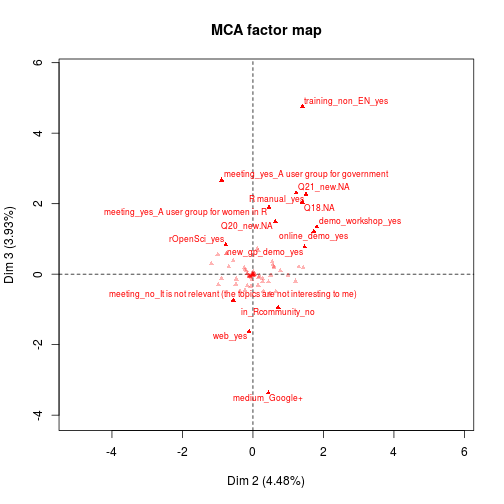
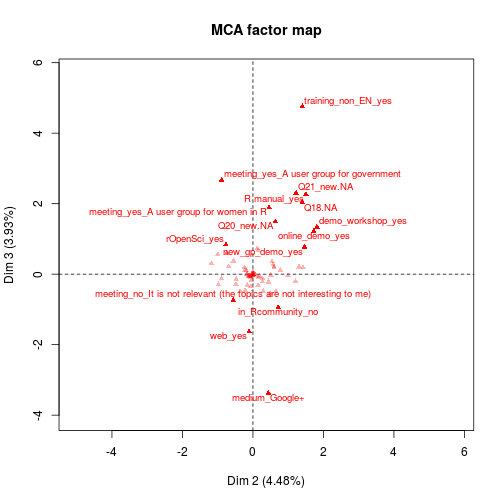
update MCA reports

diff --git a/content/docs/MCA_programming_useR2016_survey.md b/content/docs/MCA_programming_useR2016_survey.md
@@ -1,6 +1,6 @@
 ---
 title: 'useR! 2016 participants and R programming: a multivariate analysis'
-author: "Julie Josse"
+author: "Julie Josse and Heather Turner"
 date: "2017-06-17"
 type: report
 knit: (function(inputFile, encoding) {
@@ -157,12 +157,9 @@ The size of each cluster is as follows:
 |size | 171| 260| 11| 13|
 _i.e._ in terms of proportions:
 
-```
-## Error: <text>:2:59: unexpected ')'
-## 1: kable(matrix(round(table(res.hcpc$data.clust[,"clust"])/nrow(don.mca),2), 
-## 2:              ncol = 4), dimnames = list("proportion",1:4)))
-##                                                              ^
-```
+|           |    1|    2|    3|    4|
+|:----------|----:|----:|----:|----:|
+|proportion | 0.38| 0.57| 0.02| 0.03|
 
 We now interpret the clusters.
 
@@ -173,28 +170,19 @@ To help us describing the first cluster, we use statistical tests to compare the
 
 |                                                        | Cla/Mod| Mod/Cla| Global| p.value|
 |:-------------------------------------------------------|-------:|-------:|------:|-------:|
-|Q13_C=wrt_func_no                                       |    6.06|    2.34|  14.51| 3.5e-10|
+|Q13_F=rel_pkg_yes                                       |   96.77|   87.72|  34.07| < 2e-16|
+|Q13_D=ctb_pkg_yes                                       |   88.37|   88.89|  37.80| < 2e-16|
+|Q13_E=wrt_pkg_yes                                       |   71.85|  100.00|  52.31| < 2e-16|
 |Q13_C=wrt_func_yes                                      |   42.93|   97.66|  85.49| 3.5e-10|
 |Q13_B=wrt_code_yes                                      |   42.35|   97.08|  86.15| 1.4e-08|
-|Q13_B=wrt_code_no                                       |    7.94|    2.92|  13.85| 1.4e-08|
 |Q2=Men                                                  |   46.64|   77.19|  62.20| 2.2e-07|
 |Q7=Doctorate                                            |   50.75|   59.06|  43.74| 3.5e-07|
 |Q11=> 10 years                                          |   57.14|   39.77|  26.15| 4.6e-07|
 |Q15=fun_Strongly agree                                  |   49.54|   62.57|  47.47| 5.7e-07|
-|Q11=6-12 months                                         |    0.00|    0.00|   6.37| 6.6e-07|
-|Q2=Women                                                |   23.08|   22.81|  37.14| 6.6e-07|
 |Q14=For both recreational and job/educational purposes. |   52.50|   49.12|  35.16| 1.7e-06|
-|Q1_new=Q1_new_Industry                                  |   26.46|   29.24|  41.54| 3.3e-05|
-|Q8=Q8_Employed in industry                              |   26.23|   28.07|  40.22| 3.7e-05|
-|Q14=Q14.NA                                              |    0.00|    0.00|   3.52| 0.00045|
-|Q11=1-2 years                                           |   11.43|    2.34|   7.69| 0.00046|
-|Q7=Masters degree                                       |   28.34|   30.99|  41.10| 0.00065|
 |Q1_new=Q1_new_Academic/Govt                             |   46.81|   51.46|  41.32| 0.00071|
 |Q8=Q8_Employed non-permanently in academia              |   57.63|   19.88|  12.97| 0.00089|
-|Q14=Primarily as part of a job or educational course;   |   31.64|   50.88|  60.44| 0.00131|
 |Q8=Q8_Employed permanently in academia                  |   53.95|   23.98|  16.70| 0.00157|
-|Q11=Q11.NA                                              |    0.00|    0.00|   2.86| 0.00196|
-|Q5=United States                                        |   32.91|   60.82|  69.45| 0.00217|
     
 The table can be interpreted as follows:
 
@@ -205,34 +193,23 @@ To wrap-up, the tests results confirm that **cluster 1 gathers experienced users
 
 This second table represents the categories that are underrepresented in cluster 1.
 
-|                                  |Cla/Mod |Mod/Cla |Global |p.value |
-|:---------------------------------|:-------|:-------|:------|:-------|
-|Q13_F=rel_pkg_yes                 |96.77   |87.72   |34.07  |< 2e-16 |
-|Q13_F=rel_pkg_no                  |7.00    |12.28   |65.93  |< 2e-16 |
-|Q13_D=ctb_pkg_no                  |6.71    |11.11   |62.20  |< 2e-16 |
-|Q13_D=ctb_pkg_yes                 |88.37   |88.89   |37.80  |< 2e-16 |
-|Q13_E=wrt_pkg_no                  |0.00    |0.00    |47.69  |< 2e-16 |
-|Q13_E=wrt_pkg_yes                 |71.85   |100.00  |52.31  |< 2e-16 |
-|Q12=Q12.NA                        |0.00    |0.00    |2.64   |0.00320 |
-|Q2Q3=29-33_Women                  |20.00   |5.85    |10.99  |0.00539 |
-|Q13=use_func_yes                  |39.24   |97.08   |92.97  |0.00607 |
-|Q13=use_func_no                   |15.62   |2.92    |7.03   |0.00607 |
-|Q15=Q15.NA                        |6.67    |0.58    |3.30   |0.00848 |
-|Q4=Asian                          |19.51   |4.68    |9.01   |0.01053 |
-|Q15=fun_Agree                     |30.65   |33.33   |40.88  |0.01109 |
-|Q15=fun_No opinion                |16.67   |2.92    |6.59   |0.01209 |
-|Q2Q3=29-33_Men                    |52.54   |18.13   |12.97  |0.01288 |
-|Q11=< 6 months                    |0.00    |0.00    |1.98   |0.01370 |
-|Q4=Indian                         |0.00    |0.00    |1.98   |0.01370 |
-|Q4=White                          |41.53   |73.10   |66.15  |0.01492 |
-|Q2Q3=20-28_Women                  |22.45   |6.43    |10.77  |0.01885 |
-|Q15_D=difficult_Strongly disagree |51.72   |17.54   |12.75  |0.01985 |
-|Q2Q3=49-58_Women                  |7.69    |0.58    |2.86   |0.01998 |
-|Q2Q3=20-28_Men                    |53.06   |15.20   |10.77  |0.02081 |
-|Q15_C=Q15_C.NA                    |11.76   |1.17    |3.74   |0.02161 |
-|Q17_new=Q17_new.NA                |12.50   |1.17    |3.52   |0.03171 |
-|Q16=Q16.NA                        |12.50   |1.17    |3.52   |0.03171 |
-|Q7=Undergraduate degree           |25.00   |7.60    |11.43  |0.04496 |
+|                                                      | Cla/Mod| Mod/Cla| Global| p.value|
+|:-----------------------------------------------------|-------:|-------:|------:|-------:|
+|Q13_F=rel_pkg_no                                      |    7.00|   12.28|  65.93| < 2e-16|
+|Q13_D=ctb_pkg_no                                      |    6.71|   11.11|  62.20| < 2e-16|
+|Q13_E=wrt_pkg_no                                      |    0.00|    0.00|  47.69| < 2e-16|
+|Q13_C=wrt_func_no                                     |    6.06|    2.34|  14.51| 3.5e-10|
+|Q13_B=wrt_code_no                                     |    7.94|    2.92|  13.85| 1.4e-08|
+|Q11=6-12 months                                       |    0.00|    0.00|   6.37| 6.6e-07|
+|Q2=Women                                              |   23.08|   22.81|  37.14| 6.6e-07|
+|Q1_new=Q1_new_Industry                                |   26.46|   29.24|  41.54| 3.3e-05|
+|Q8=Q8_Employed in industry                            |   26.23|   28.07|  40.22| 3.7e-05|
+|Q14=Q14.NA                                            |    0.00|    0.00|   3.52| 0.00045|
+|Q11=1-2 years                                         |   11.43|    2.34|   7.69| 0.00046|
+|Q7=Masters degree                                     |   28.34|   30.99|  41.10| 0.00065|
+|Q14=Primarily as part of a job or educational course; |   31.64|   50.88|  60.44| 0.00131|
+|Q11=Q11.NA                                            |    0.00|    0.00|   2.86| 0.00196|
+|Q5=United States                                      |   32.91|   60.82|  69.45| 0.00217|
 
 US people are under-represented in cluster 1.  We can imagine that only people deeply using R are motivated to go to the US for such a conference due to the costs.
 
@@ -240,34 +217,28 @@ US people are under-represented in cluster 1.  We can imagine that only people d
 
 Cluster 2 can be described as a cluster of **intermediate users** who use R since 1-2 years or less, but more than 6 months. They use R functions, but don't write their own functions or packages. They appreciate R, but use it primarily for their job. They are more employed in the industry. This cluster gathers more women, more undergraduate and master and people from the US.
 
-|                                                        | Cla/Mod| Mod/Cla| Global| p.value|
-|:-------------------------------------------------------|-------:|-------:|------:|-------:|
-|Q11=6-12 months                                         |  100.00|   11.15|   6.37| 4.4e-08|
-|Q14=Primarily as part of a job or educational course;   |   66.91|   70.77|  60.44| 2.2e-07|
-|Q2=Women                                                |   71.60|   46.54|  37.14| 1.4e-06|
-|Q11=1-2 years                                           |   88.57|   11.92|   7.69| 4.0e-05|
-|Q8=Q8_Employed in industry                              |   67.76|   47.69|  40.22| 0.00017|
-|Q1_new=Q1_new_Industry                                  |   67.20|   48.85|  41.54| 0.00026|
-|Q15=fun_Agree                                           |   67.20|   48.08|  40.88| 0.00031|
-|Q7=Masters degree                                       |   66.31|   47.69|  41.10| 0.00096|
-|Q2Q3=29-33_Women                                        |   78.00|   15.00|  10.99| 0.00129|
-|Q1_new=Q1_new_Academic/Govt                             |   48.40|   35.00|  41.32| 0.00166|
-|Q8=Q8_Employed non-permanently in academia              |   37.29|    8.46|  12.97| 0.00112|
-|Q15=fun_Strongly agree                                  |   49.07|   40.77|  47.47| 0.00098|
-|Q14=For both recreational and job/educational purposes. |   46.25|   28.46|  35.16| 0.00059|
-|Q11=< 6 months                                          |    0.00|    0.00|   1.98| 0.00044|
-|Q17_new=Q17_new.NA                                      |   12.50|    0.77|   3.52| 0.00027|
-|Q16=Q16.NA                                              |   12.50|    0.77|   3.52| 0.00027|
-|Q14=Q14.NA                                              |   12.50|    0.77|   3.52| 0.00027|
-|Q11=> 10 years                                          |   42.02|   19.23|  26.15| 0.00012|
-|Q15=Q15.NA                                              |    6.67|    0.38|   3.30| 5.2e-05|
-|Q12=Q12.NA                                              |    0.00|    0.00|   2.64| 3.1e-05|
-|Q11=Q11.NA                                              |    0.00|    0.00|   2.86| 1.3e-05|
-|Q15_D=Q15_D.NA                                          |    5.88|    0.38|   3.74| 9.8e-06|
-|Q15_C=Q15_C.NA                                          |    5.88|    0.38|   3.74| 9.8e-06|
-|Q15_B=Q15_B.NA                                          |    5.88|    0.38|   3.74| 9.8e-06|
-|Q2=Men                                                  |   48.41|   52.69|  62.20| 1.2e-06|
-|Q7=Doctorate                                            |   43.72|   33.46|  43.74| 3.6e-07|
+|                                                      | Cla/Mod| Mod/Cla| Global| p.value|
+|:-----------------------------------------------------|-------:|-------:|------:|-------:|
+|Q13_F=rel_pkg_no                                      |   85.33|   98.46|  65.93| < 2e-16|
+|Q13_D=ctb_pkg_no                                      |   85.51|   93.08|  62.20| < 2e-16|
+|Q13_E=wrt_pkg_no                                      |   89.86|   75.00|  47.69| < 2e-16|
+|Q11=6-12 months                                       |  100.00|   11.15|   6.37| 4.4e-08|
+|Q14=Primarily as part of a job or educational course; |   66.91|   70.77|  60.44| 2.2e-07|
+|Q2=Women                                              |   71.60|   46.54|  37.14| 1.4e-06|
+|Q11=1-2 years                                         |   88.57|   11.92|   7.69| 4.0e-05|
+|Q8=Q8_Employed in industry                            |   67.76|   47.69|  40.22| 0.00017|
+|Q1_new=Q1_new_Industry                                |   67.20|   48.85|  41.54| 0.00026|
+|Q15=fun_Agree                                         |   67.20|   48.08|  40.88| 0.00031|
+|Q7=Masters degree                                     |   66.31|   47.69|  41.10| 0.00096|
+|Q2Q3=29-33_Women                                      |   74.58|   16.92|  12.97| 0.00334|
+|Q2Q3=20-28_Women                                      |   75.51|   14.23|  10.77| 0.00538|
+|Q16=rcmd_Yes                                          |   59.09|   95.00|  91.87| 0.00558|
+|Q5=United States                                      |   61.08|   74.23|  69.45| 0.01118|
+|Q13=use_func_yes                                      |   58.63|   95.38|  92.97| 0.02258|
+|Q7=Undergraduate degree                               |   71.15|   14.23|  11.43| 0.02953|
+|Q15_D=difficult_Disagree                              |   62.56|   50.77|  46.37| 0.03045|
+|Q2Q3=>58_Men                                          |   80.00|    6.15|   4.40| 0.03401|
+|Q10=Caryng_resp_No                                    |   60.18|   76.15|  72.31| 0.03569|
 
 
 ### Cluster 3
@@ -276,16 +247,16 @@ Cluster 3 gathers respondents with less than 6 months of experience in R. They d
 
 |                                                             | Cla/Mod| Mod/Cla| Global| p.value|
 |:------------------------------------------------------------|-------:|-------:|------:|-------:|
-|Q11=< 6 months                                               |  100.00|   81.82|   1.98|    0.00|
-|Q14=Primarily as a recreational activity, in your free time; |  100.00|   36.36|   0.88|    0.00|
-|Q13_C=wrt_func_no                                            |   12.12|   72.73|  14.51|    0.00|
-|Q13_B=wrt_code_no                                            |   11.11|   63.64|  13.85|    0.00|
-|Q15=fun_No opinion                                           |   13.33|   36.36|   6.59|    0.00|
-|Q16=rcmd_No                                                  |   14.29|   27.27|   4.62|    0.01|
-|Q15_C=monotonous_No opinion                                  |    7.46|   45.45|  14.73|    0.02|
-|Q4=Native American                                           |  100.00|    9.09|   0.22|    0.02|
-|Q17_new=Open source                                          |   11.11|   27.27|   5.93|    0.02|
-|Q13_E=wrt_pkg_no                                             |    4.15|   81.82|  47.69|    0.03|
+|Q11=< 6 months                                               |  100.00|   81.82|   1.98| < 2e-16|
+|Q14=Primarily as a recreational activity, in your free time; |  100.00|   36.36|   0.88| 1.9e-07|
+|Q13_C=wrt_func_no                                            |   12.12|   72.73|  14.51| 1.6e-05|
+|Q13_B=wrt_code_no                                            |   11.11|   63.64|  13.85| 0.00016|
+|Q15=fun_No opinion                                           |   13.33|   36.36|   6.59| 0.00400|
+|Q16=rcmd_No                                                  |   14.29|   27.27|   4.62| 0.01195|
+|Q15_C=monotonous_No opinion                                  |    7.46|   45.45|  14.73| 0.01564|
+|Q4=Native American                                           |  100.00|    9.09|   0.22| 0.02418|
+|Q17_new=Open source                                          |   11.11|   27.27|   5.93| 0.02484|
+|Q13_E=wrt_pkg_no                                             |    4.15|   81.82|  47.69| 0.02518|
 
 
 

diff --git a/content/docs/MCA_community_useR2016_survey.md b/content/docs/MCA_community_useR2016_survey.md
@@ -1,7 +1,7 @@
 ---
 title: "useR! 2016 participants and the R community: a multivariate analysis"
-author: "Julie Josse"
-date: "2017-06-17"
+author: "Julie Josse and Heather Turner"
+date: "2017-06-18"
 type: report
 knit: (function(inputFile, encoding) {
     outputFile <- 
@@ -168,16 +168,16 @@ We investigate the number of respondents in each group according to the number o
 |ncp=21 |     12|    425|      6|      0|      0|      0|      0|
 |ncp=22 |     12|    425|      6|      0|      0|      0|      0|
 
-We choose to keep 13 components as this will keep enough information, while highlighting a new cluster in the previous big one.
+We choose to keep 10 components as this will keep enough information, while highlighting a new cluster in the previous big one.
 
 <img src="/images/reports/MCA_community_useR2016_survey/unnamed-chunk-12-1.png" title="plot of chunk unnamed-chunk-12" alt="plot of chunk unnamed-chunk-12" style="display: block; margin: auto;" />
 
 Respondents are grouped in the clusters as follows:
 
 
-|   |    1|     2|    3|
-|:--|----:|-----:|----:|
-|%  | 2.71| 95.94| 1.35|
+|   |    1|     2|     3|    4|
+|:--|----:|-----:|-----:|----:|
+|%  | 2.71| 61.17| 35.44| 0.68|
 
 <img src="/images/reports/MCA_community_useR2016_survey/unnamed-chunk-14-1.png" title="plot of chunk unnamed-chunk-14" alt="plot of chunk unnamed-chunk-14" style="display: block; margin: auto;" />
 
@@ -194,55 +194,66 @@ Unsurprisingly, there is an over-representation of people that didn't answer the
 #### Cluster 2
 The following categories are over-represented in cluster 2:
 
-|                                                                  | Cla/Mod| Mod/Cla| Global| p.value|
-|:-----------------------------------------------------------------|-------:|-------:|------:|-------:|
-|Q21=No                                                            |   99.63|   62.82|  60.50|    0.00|
-|Q19_C=R_StackOverflow_yes                                         |   98.50|   77.41|  75.40|    0.00|
-|Q24_H=training_non_EN_no                                          |   96.59|  100.00|  99.32|    0.00|
-|Q18=in_Rcommunity_yes                                             |   97.78|   83.06|  81.49|    0.00|
-|Q19_H_new=Other_no                                                |   96.65|   95.06|  94.36|    0.02|
-|Q21_new=meeting_no_There is no group nearby/the group is inactive |  100.00|   20.00|  19.19|    0.02|
-|Q21_new=meeting_no_I am too busy                                  |  100.00|   18.12|  17.38|    0.03|
-|Q8=Q8_Employed permanently in academia                            |  100.00|   17.65|  16.93|    0.03|
-|Q20_new=medium_Website                                            |   99.09|   25.65|  24.83|    0.04|
-|Q18=in_Rcommunity_no                                              |  100.00|   16.24|  15.58|    0.04|
+|                                                                   | Cla/Mod| Mod/Cla| Global| p.value|
+|:------------------------------------------------------------------|-------:|-------:|------:|-------:|
+|Q24=new_gp_near_no                                                 |   78.19|   92.62|  72.46| < 2e-16|
+|Q18=in_Rcommunity_yes                                              |   70.64|   94.10|  81.49| < 2e-16|
+|Q21=Yes                                                            |   85.89|   51.66|  36.79| < 2e-16|
+|Q21_new=meeting_yes_A general user group                           |   86.82|   41.33|  29.12| 1.1e-13|
+|Q19_B=R_twitter_yes                                                |   85.59|   37.27|  26.64| 3.4e-11|
+|Q24_C=free_workshop_no                                             |   66.75|   94.10|  86.23| 3.1e-09|
+|Q20_new=medium_Twitter                                             |   90.00|   23.25|  15.80| 8.3e-09|
+|Q19=R_mailing_yes                                                  |   73.89|   49.08|  40.63| 4.8e-06|
+|Q24_B=new_gp_demo_no                                               |   64.08|   97.42|  93.00| 7.9e-06|
+|Q21_new=meeting_no_It is not necessary (I have the support I need) |   96.15|    9.23|   5.87| 3.5e-05|
+|Q24_D=paid_workshop_no                                             |   64.92|   91.51|  86.23| 7.5e-05|
+|Q19_C=R_StackOverflow_yes                                          |   66.17|   81.55|  75.40| 0.00020|
+|Q21_new=meeting_no_I am too busy                                   |   77.92|   22.14|  17.38| 0.00071|
+|Q7=Doctorate                                                       |   68.91|   49.08|  43.57| 0.00334|
+|Q1_new=Q1_new_Academic/Govt                                        |   69.02|   46.86|  41.53| 0.00428|
+|Q24_F=demo_workshop_no                                             |   62.65|   97.79|  95.49| 0.00481|
+|Q9=Part-time                                                       |   93.33|    5.17|   3.39| 0.00648|
+|Q7=Professional degree or certification                            |  100.00|    3.69|   2.26| 0.00687|
+|Q19_L_new=web_no                                                   |   62.50|   97.79|  95.71| 0.00928|
+|Q24_K=online_demo_no                                               |   62.35|   97.79|  95.94| 0.01753|
+|Q19_F=Biocond_yes                                                  |   80.65|    9.23|   7.00| 0.01900|
+|Q2Q3=>58_Men                                                       |   85.00|    6.27|   4.51| 0.02259|
+|Q3_cat=>58                                                         |   81.48|    8.12|   6.09| 0.02320|
+|Q2=Men                                                             |   65.22|   66.42|  62.30| 0.02582|
+|Q2Q3=29-33_Men                                                     |   74.14|   15.87|  13.09| 0.02851|
 
-The numbers read as follows, e.g. for Q18: 76.45% of individuals who consider themselves as part of the R community are in cluster 2; in cluster 2 84.15% of the individuals consider themselves as part of the R community, and 81.49% in the population of all the respondents consider themselves as part of the R community. The test is significant which implies that this cluster can be considered as a cluster with an over-representation of people considering themselves as part of the community. We conclude they are not interested in free workshops, online demos, etc.
+The numbers read as follows, e.g. for Q18:  70.64% of individuals who consider themselves as part of the R community are in cluster 2; in cluster 2  94.1% of the individuals consider themselves as part of the R community, and   81.49% in the population of all the respondents consider themselves as part of the R community. The test is significant which implies that this cluster can be considered as a cluster with an over-representation of people considering themselves as part of the community. We conclude they are not interested in free workshops, online demos, etc.
 According to the demographic characteristics, there is an over-representation of people employed permanently in academia, people with caring responsibilities, as well as a significantly larger proportion of men and people with a doctorate.
 
-In the following table, we report the categories under-represented in the cluster:
-
-|                                                | Cla/Mod| Mod/Cla| Global| p.value|
-|:-----------------------------------------------|-------:|-------:|------:|-------:|
-|Q21_new=Q21_new.NA                              |    8.33|    0.24|   2.71|    0.00|
-|Q21=Q21.NA                                      |    8.33|    0.24|   2.71|    0.00|
-|Q18=Q18.NA                                      |   23.08|    0.71|   2.93|    0.00|
-|Q20_new=Q20_new.NA                              |   53.85|    3.29|   5.87|    0.00|
-|Q21_new=meeting_yes_A user group for government |    0.00|    0.00|   0.90|    0.00|
-|Q19_C=R_StackOverflow_no                        |   88.07|   22.59|  24.60|    0.00|
-|Q24_H=training_non_EN_yes                       |    0.00|    0.00|   0.68|    0.00|
-|Q19_H_new=Other_yes                             |   84.00|    4.94|   5.64|    0.02|
-|Q8=Q8_Employed in industry                      |   93.22|   38.82|  39.95|    0.02|
-|Q1_new=Q1_new_Industry                          |   93.41|   40.00|  41.08|    0.03|
-
-Since most of variables are binary, we do not get new information from this table. We note however that young people are under-represented, as well as people who didn't participate in R user group meetings because of inexperience.
+We studied the categories under-represented in the cluster. However, 
+since most of variables are binary, we do not get new information from this table. We note however that young people are under-represented, as well as people who didn't participate in R user group meetings because of inexperience.
 
 #### Cluster 3
 
 
-|                                                | Cla/Mod| Mod/Cla| Global| p.value|
-|:-----------------------------------------------|-------:|-------:|------:|-------:|
-|Q21_new=meeting_yes_A user group for government |  100.00|   66.67|   0.90|    0.00|
-|Q24_H=training_non_EN_yes                       |  100.00|   50.00|   0.68|    0.00|
-|Q19_H_new=Other_yes                             |   16.00|   66.67|   5.64|    0.00|
-|Q21=Yes                                         |    3.68|  100.00|  36.79|    0.00|
-|Q3_cat=41-48                                    |    6.06|   66.67|  14.90|    0.01|
-|Q7=Professional degree or certification         |   20.00|   33.33|   2.26|    0.01|
-|Q24_G=mentoring_yes                             |    4.60|   66.67|  19.64|    0.02|
-|Q2Q3=41-48_Men                                  |    6.12|   50.00|  11.06|    0.02|
-|Q5_new=Japan                                    |   50.00|   16.67|   0.45|    0.03|
-|Q24_F=demo_workshop_yes                         |   10.00|   33.33|   4.51|    0.03|
-|Q5_new=Taiwan                                   |   33.33|   16.67|   0.68|    0.04|
+|                                                                  | Cla/Mod| Mod/Cla| Global| p.value|
+|:-----------------------------------------------------------------|-------:|-------:|------:|-------:|
+|Q24=new_gp_near_yes                                               |   81.97|   63.69|  27.54| < 2e-16|
+|Q21_new=meeting_no_There is no group nearby/the group is inactive |   78.82|   42.68|  19.19| < 2e-16|
+|Q21=No                                                            |   50.75|   86.62|  60.50| < 2e-16|
+|Q18=in_Rcommunity_no                                              |   76.81|   33.76|  15.58| 2.4e-14|
+|Q24_C=free_workshop_yes                                           |   73.77|   28.66|  13.77| 5.9e-11|
+|Q21_new=meeting_no_I feel too inexperienced                       |   90.32|   17.83|   7.00| 7.2e-11|
+|Q19_B=R_twitter_no                                                |   43.69|   90.45|  73.36| 2.5e-10|
+|Q24_D=paid_workshop_yes                                           |   62.30|   24.20|  13.77| 4.8e-06|
+|Q24_B=new_gp_demo_yes                                             |   74.19|   14.65|   7.00| 6.9e-06|
+|Q20_new=medium_Website                                            |   52.73|   36.94|  24.83| 1.8e-05|
+|Q19=R_mailing_no                                                  |   42.97|   71.97|  59.37| 5.6e-05|
+|Q19_L_new=web_yes                                                 |   68.42|    8.28|   4.29| 0.00351|
+|Q20_new=medium_Facebook                                           |   66.67|    8.92|   4.74| 0.00351|
+|Q8=Q8_Employed in industry                                        |   42.37|   47.77|  39.95| 0.01354|
+|Q3_cat=20-28                                                      |   45.83|   28.03|  21.67| 0.01803|
+|Q24_F=demo_workshop_yes                                           |   60.00|    7.64|   4.51| 0.02503|
+|Q7=Undergraduate degree                                           |   50.00|   15.92|  11.29| 0.02609|
+|Q24_K=online_demo_yes                                             |   61.11|    7.01|   4.06| 0.02707|
+|Q2Q3=20-28_Women                                                  |   50.00|   15.29|  10.84| 0.02974|
+|Q20_new=medium_Google+                                            |  100.00|    1.91|   0.68| 0.04396|
+|Q7=High school/Secondary school or lower                          |  100.00|    1.91|   0.68| 0.04396|
 
 
 In this cluster, there is an over-representation of those who adhere to most of the proposals to increase their participation in the R community. Most of them have never participated in a user group meeting. The cluster gathers a large number of people who use blogs to get help, but also a large proportion of people who do not use Twitter. They prefer to use a medium like Facebook or mailing lists for news.
@@ -251,6 +262,7 @@ From a demographic point of view, the cluster contains a significantly higher pr
 
 
 
+Note that we need to be cautious concerning the interpretation of the clustering as it varies depending on the number of MCA components selected. The stability of the solution should be investigated further. In addition, the number of individuals per cluster may slightly vary as there is a "consolidation step"[^fn1] which is applied, i.e. a k-means algorithm applied after the hierarchical clustering.
 
 # Conclusion
 
